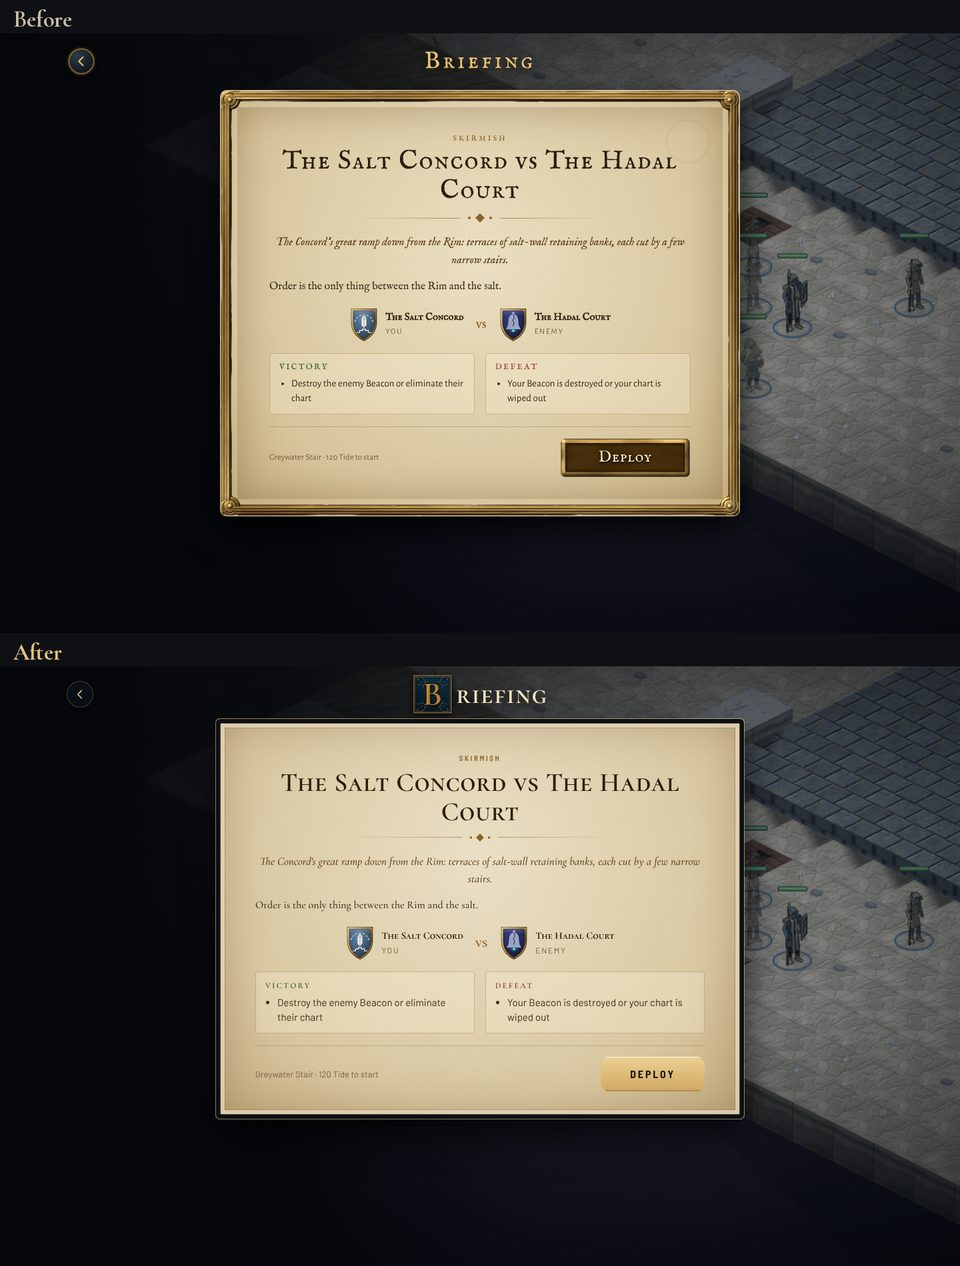
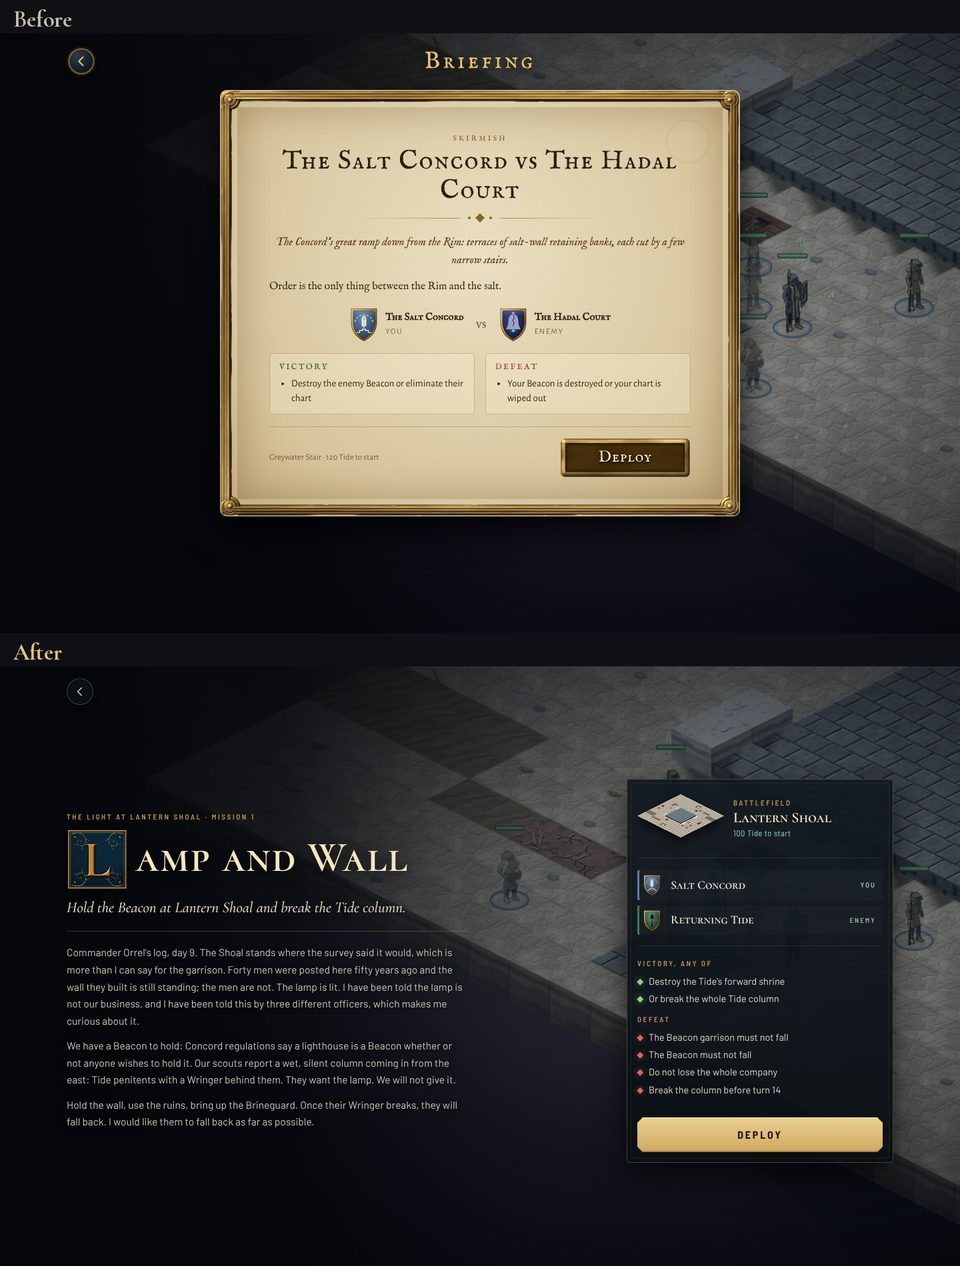
Redo the briefing: story on the board, order of battle in one panel
Drops the parchment card. The mission name is the hero heading with an illuminated initial, and the
story sits directly on the darkened live board. A single panel on the right holds the battlefield,
forces, victory and defeat conditions, and Deploy, which stays reachable on short phone screens.

Claude-Session: https://claude.ai/code/session_01PJvvaMJLspokHYeQV1hQwn

Changed region(s): [[0.0625, 0.5237, 0.9375, 0.9242]]

diff --git a/src/style.css b/src/style.css
@@ -189,25 +189,35 @@ p { margin: 0; }
 .scen-crests { display: flex; } .scen-crests .crest { width: 40px; } .scen-crests .crest + .crest { margin-left: -12px; margin-top: 14px; }
 .scen-t { flex: 1; min-width: 0; } .scen h3 { color: var(--gold-hi); font-size: 17px; } .scen p { color: var(--muted); font-size: 13px; margin-top: 3px; }
 
-/* ------------------------------------------------------------------ briefing */
-.parchment { position: relative; max-width: 780px; margin: 0 auto; padding: 44px 52px 34px; color: var(--paper-ink); border: 1px solid #5a4322; border-radius: 2px;
-  background: var(--grain-paper), radial-gradient(ellipse at 50% 35%, #f1e7cf, #ddcca6 70%, #c8b085);
-  box-shadow: 0 0 0 6px #0b1016, 0 0 0 7px var(--line-hi), 0 24px 60px #000d, inset 0 0 0 6px #f6edd8aa, inset 0 0 0 7px #8a6a3a66, inset 0 0 70px #6b4f2a55; }
-.parchment .kicker { color: #8a5a20; text-align: center; }
-.parchment h1 { text-align: center; font-size: clamp(26px, 4vw, 40px); color: #2c1e0c; margin-top: 6px; line-height: 1.1; }
-.parchment .orn { color: #8a6326; margin: 10px auto 16px; width: 60%; }
-.parchment .lead { color: #5a3a12; text-align: center; font-size: 17px; margin-bottom: 14px; }
-.parchment p { font-family: var(--font-flavor); line-height: 1.55; margin-bottom: 10px; font-size: 16px; color: #3b2d1a; }
-.forces { display: flex; align-items: center; justify-content: center; gap: 18px; margin: 18px 0; flex-wrap: wrap; }
-.force { display: flex; align-items: center; gap: 10px; } .force .crest { width: 44px; }
-.force b { display: block; font-family: var(--font-display); font-size: 15px; color: #2c1e0c; } .force small { color: #7a6142; font-size: 12px; text-transform: uppercase; letter-spacing: .14em; }
-.fvs { font-family: var(--font-logo); font-weight: 600; color: #8a5a20; font-size: 20px; }
-.objs { display: grid; grid-template-columns: 1fr 1fr; gap: 16px; margin: 6px 0 18px; }
-.obj { padding: 12px 14px; border-radius: 4px; border: 1px solid #8a632655; background: #fff8e244; }
-.obj h3 { font-size: 12px; letter-spacing: .2em; text-transform: uppercase; color: #2f5a2c; margin-bottom: 6px; } .obj.lose h3 { color: #8e2e24; }
-.obj ul { margin: 0; padding-left: 18px; font-size: 15px; line-height: 1.45; color: #3b2d1a; }
-.brief-foot { display: flex; align-items: center; justify-content: space-between; gap: 16px; flex-wrap: wrap; border-top: 1px solid #8a632655; padding-top: 16px; }
-.brief-foot .muted { color: #7a6142; font-size: 13px; }
+/* ------------------------------------------------------------------ briefing
+   Story set straight on the darkened live board (left), order of battle in one panel (right). */
+.brief-scr { min-height: 100vh; min-height: 100dvh; display: flex; flex-direction: column; }
+.brief-top { max-width: 1240px; width: 100%; margin: 0 auto; }
+.brief-grid { flex: 1; max-width: 1240px; width: 100%; margin: 0 auto; display: grid; grid-template-columns: minmax(0, 1fr) 400px; gap: clamp(28px, 6vw, 96px); align-items: center; padding: 8px 0 24px; }
+.brief-story { max-width: 600px; }
+.brief-story .kicker { margin-bottom: 14px; }
+.brief-title { display: flex; align-items: center; font-size: clamp(38px, 5vw, 64px); line-height: 1.02; color: var(--gold-hi); letter-spacing: .02em; text-shadow: 0 3px 24px #000; }
+.brief-title .ill { width: 1.45em; height: 1.45em; margin-right: .16em; align-self: flex-start; margin-top: -.06em; }
+.brief-story .lead { margin-top: 20px; font-size: clamp(19px, 1.6vw, 23px); line-height: 1.45; color: #e6dcc4; text-shadow: 0 1px 10px #000; }
+.brief-text { margin-top: 18px; padding-top: 18px; border-top: 1px solid var(--line); display: flex; flex-direction: column; gap: 12px; }
+.brief-text p { font-size: 15.5px; line-height: 1.65; color: #c9c3b6; text-shadow: 0 1px 8px #000; }
+.brief-side { display: flex; flex-direction: column; gap: 18px; }
+.bs-map { display: grid; grid-template-columns: 130px 1fr; gap: 14px; align-items: center; padding-bottom: 16px; border-bottom: 1px solid var(--line-dim); }
+.bs-map .mapprev { width: 130px; height: 86px; margin: 0; }
+.bs-mapname { display: flex; flex-direction: column; gap: 3px; } .bs-mapname b { font-family: var(--font-display); font-weight: 600; font-size: 22px; line-height: 1.1; color: var(--gold-hi); }
+.bs-mapname small { font-family: var(--font-ui); font-size: 12.5px; letter-spacing: .04em; color: #8fd8d0; }
+.bs-forces { display: flex; flex-direction: column; gap: 8px; padding-bottom: 16px; border-bottom: 1px solid var(--line-dim); }
+.bs-force { --tc: #888; display: grid; grid-template-columns: 30px 1fr auto; align-items: center; gap: 12px; padding: 6px 10px 6px 8px; border-radius: 2px; background: #ffffff06; box-shadow: inset 3px 0 0 var(--tc); }
+.bs-force .crest { width: 28px; }
+.bs-force b { font-family: var(--font-display); font-weight: 600; font-size: 18px; color: var(--text); }
+.bs-force small { font-family: var(--font-ui); font-weight: 600; font-size: 10.5px; letter-spacing: .2em; text-transform: uppercase; color: color-mix(in srgb, var(--tc) 55%, #fff); }
+.bs-objs ul { list-style: none; margin: 8px 0 14px; padding: 0; display: flex; flex-direction: column; gap: 6px; }
+.bs-objs .kicker.lose { color: #c97a70; }
+.bo-row { display: flex; gap: 10px; align-items: baseline; font-size: 14.5px; line-height: 1.4; color: #dcd5c6; }
+.bo-mark { flex: none; width: 7px; height: 7px; transform: rotate(45deg) translateY(-1px); background: #8fd18a; box-shadow: 0 0 8px #8fd18a88; }
+.bo-row.lose .bo-mark { background: #d9675c; box-shadow: 0 0 8px #d9675c88; }
+.bs-deploy { width: 100%; }
+@media (max-width: 900px) { .brief-grid { grid-template-columns: 1fr; align-items: start; } .brief-story { max-width: none; } }
 
 /* ------------------------------------------------------------------ battle layout */
 .game { display: grid; height: 100vh; height: 100dvh; grid-template-rows: minmax(0, 1fr) auto; grid-template-columns: 100%; position: relative; background: var(--ink); }
@@ -439,8 +449,6 @@ p { margin: 0; }
   .mp-name { font-size: 14px; text-align: center; }
 
   .scen-grid { grid-template-columns: repeat(auto-fill, minmax(300px, 1fr)); gap: 8px; }
-  .parchment { padding: 22px 24px 18px; } .parchment p { font-size: 14px; } .parchment .lead { font-size: 15px; }
-  .objs { gap: 10px; } .obj ul { font-size: 13px; }
 
   /* battle */
   #hudtop { padding-top: calc(4px + var(--sa-t)); gap: 6px; }
@@ -479,7 +487,6 @@ p { margin: 0; }
   .logo-block { grid-column: 1; grid-row: 2; margin-bottom: 22px; justify-self: center; } .mainnav { grid-column: 1; grid-row: 3; } .errbox { grid-column: 1; grid-row: 4; } .ver { grid-row: 6; }
   .camp-body, .skirm-body { grid-template-columns: 1fr; } .vs-col { grid-row: auto; }
   .chartmap { aspect-ratio: 4 / 3; }
-  .objs { grid-template-columns: 1fr; }
   .scen-grid { grid-template-columns: 1fr; }
   #hudtop { grid-template-columns: auto 1fr auto; } .pplate { padding: 2px 6px 2px 2px; } .tidebar { min-width: 44px; }
   .rm-round { display: none; }
@@ -536,17 +543,15 @@ p { margin: 0; }
   .hoverbox { display: none; }
 }
 
-/* briefing on short landscape screens: story scrolls on the left, forces/objectives/Deploy always visible on the right */
+/* briefing on short landscape screens: story scrolls on the left, order of battle stays whole on the right */
 @media (max-height: 520px) and (orientation: landscape) {
-  .brief-scr .parchment { max-width: none; display: grid; grid-template-columns: 1.25fr 1fr; gap: 18px; padding: 12px 16px; height: calc(100dvh - 70px); overflow: hidden; }
-  .brief-story { overflow-y: auto; padding-right: 6px; min-height: 0; }
-  .brief-side { display: flex; flex-direction: column; gap: 8px; min-height: 0; overflow: hidden; }
-  .brief-side .forces { margin: 0; gap: 8px; flex-wrap: nowrap; justify-content: space-between; } .brief-side .force .crest { width: 30px; } .brief-side .force b { font-size: 13px; } .brief-side .force small { font-size: 10px; } .brief-side .fvs { font-size: 15px; }
-  .brief-side .objs { grid-template-columns: 1fr; gap: 6px; margin: 0; overflow-y: auto; min-height: 0; flex: 1; }
-  .brief-side .brief-foot { flex: none; flex-wrap: nowrap; } .brief-side .brief-foot .muted { font-size: 11px; } .brief-side .btn-gold.big { padding: 6px 22px; font-size: 18px; }
-  .brief-side .obj { padding: 6px 10px; } .brief-side .obj li { font-size: 12.5px; }
-  .brief-side .brief-foot { margin-top: auto; padding-top: 6px; }
-  .brief-scr .parchment h1 { font-size: 24px; } .brief-scr .parchment .orn { margin: 4px auto 8px; }
+  .brief-grid { grid-template-columns: 1.2fr 1fr; gap: 18px; align-items: start; padding: 0; }
+  .brief-story { max-height: calc(100dvh - 70px); overflow-y: auto; padding-right: 6px; }
+  .brief-title { font-size: 28px; } .brief-story .lead { font-size: 15px; margin-top: 10px; } .brief-text { margin-top: 10px; padding-top: 10px; } .brief-text p { font-size: 13px; }
+  .brief-side { gap: 10px; max-height: calc(100dvh - 70px); overflow-y: auto; } .bs-map { display: block; padding-bottom: 8px; } .bs-map .mapprev { display: none; } .bs-mapname b { font-size: 16px; }
+  .bs-deploy { position: sticky; bottom: 0; flex: none; box-shadow: 0 -10px 16px #0a0f14; }
+  .bs-forces { padding-bottom: 8px; gap: 4px; } .bs-force { padding: 3px 8px; } .bs-force b { font-size: 14px; } .bs-force .crest { width: 22px; }
+  .bs-objs ul { margin: 4px 0 8px; gap: 3px; } .bo-row { font-size: 12.5px; }
 }
 #turnflash.hint { top: auto; bottom: 150px; }
 .tf-hint { padding: 8px 20px; border-radius: 3px; background: var(--glass); box-shadow: 0 0 0 1px var(--line), 0 6px 16px #000a; font-family: var(--font-ui); font-size: 15px; font-weight: 600; letter-spacing: .04em; color: var(--gold-hi); }

diff --git a/src/ui/menu.ts b/src/ui/menu.ts
@@ -294,23 +294,27 @@ export function showBriefing(root: HTMLElement, content: Content, choice: Missio
   const host = shell(root, content);
   const kicker = choice.campaign ? `${content.campaigns[choice.campaign.id].name} · Mission ${choice.campaign.index + 1}` : 'Skirmish';
   const teams = m.teams.map(t => ({ t, f: missionTeamFaction(content, m, t) }));
+  const story = (m.briefing ?? []).filter(t => t.trim() !== m.description?.trim());
+  const objRow = (kind: 'win' | 'lose', t: string) => h('li', { class: 'bo-row ' + kind }, h('i', { class: 'bo-mark' }), h('span', null, t));
   host.append(h('div', { class: 'scr brief-scr' },
-    screenHeader('Briefing', null, onBack),
-    h('article', { class: 'parchment' },
-      h('div', { class: 'brief-story' },
+    h('header', { class: 'brief-top' }, h('button', { class: 'iconbtn back', title: 'Back', onclick: onBack }, glyph('back'))),
+    h('div', { class: 'brief-grid' },
+      h('section', { class: 'brief-story' },
         h('div', { class: 'kicker' }, kicker),
-        h('h1', null, m.name),
-        ornament(),
+        h('h1', { class: 'brief-title' }, ...illuminated(m.name)),
         m.description ? h('p', { class: 'lead' }, m.description) : null,
-        ...(m.briefing ?? []).filter(t => t.trim() !== m.description?.trim()).map(t => h('p', null, t))),
-      h('div', { class: 'brief-side' },
-      h('div', { class: 'forces' }, ...teams.flatMap(({ t, f }, i) => [
-        i ? h('span', { class: 'fvs' }, 'vs') : null,
-        h('div', { class: 'force', style: `--tc:${t.color}` }, crest(f, 'crest', t.color), h('div', null, h('b', null, t.name), h('small', null, t.controller === 'human' ? 'You' : 'Enemy')))])),
-      h('div', { class: 'objs' },
-        h('div', { class: 'obj win' }, h('h3', null, obj.winAny ? 'Victory: any of' : 'Victory'), h('ul', null, ...obj.win.map(t => h('li', null, t)))),
-        h('div', { class: 'obj lose' }, h('h3', null, 'Defeat'), h('ul', null, ...obj.lose.map(t => h('li', null, t))))),
-      h('div', { class: 'brief-foot' },
-        h('span', { class: 'muted' }, `${map?.name ?? m.map} · ${m.startingEssence ?? 100} ${label(content, 'essence')} to start`),
-        h('button', { class: 'btn-gold big', onclick: onStart }, 'Deploy'))))));
+        story.length ? h('div', { class: 'brief-text' }, ...story.map(t => h('p', null, t))) : null),
+      h('aside', { class: 'brief-side framed' },
+        h('div', { class: 'bs-map' }, mapPreview(content, m.map),
+          h('div', { class: 'bs-mapname' }, h('span', { class: 'kicker' }, 'Battlefield'), h('b', null, map?.name ?? m.map),
+            h('small', null, `${m.startingEssence ?? 100} ${label(content, 'essence')} to start`))),
+        h('div', { class: 'bs-forces' }, ...teams.map(({ t, f }) =>
+          h('div', { class: 'bs-force', style: `--tc:${t.color}` }, crest(f, 'crest', t.color),
+            h('b', null, t.name), h('small', null, t.controller === 'human' ? 'You' : 'Enemy')))),
+        h('div', { class: 'bs-objs' },
+          h('div', { class: 'kicker' }, obj.winAny ? 'Victory, any of' : 'Victory'),
+          h('ul', null, ...obj.win.map(t => objRow('win', t))),
+          h('div', { class: 'kicker lose' }, 'Defeat'),
+          h('ul', null, ...obj.lose.map(t => objRow('lose', t)))),
+        h('button', { class: 'btn-gold big bs-deploy', onclick: onStart }, 'Deploy')))));
 }
